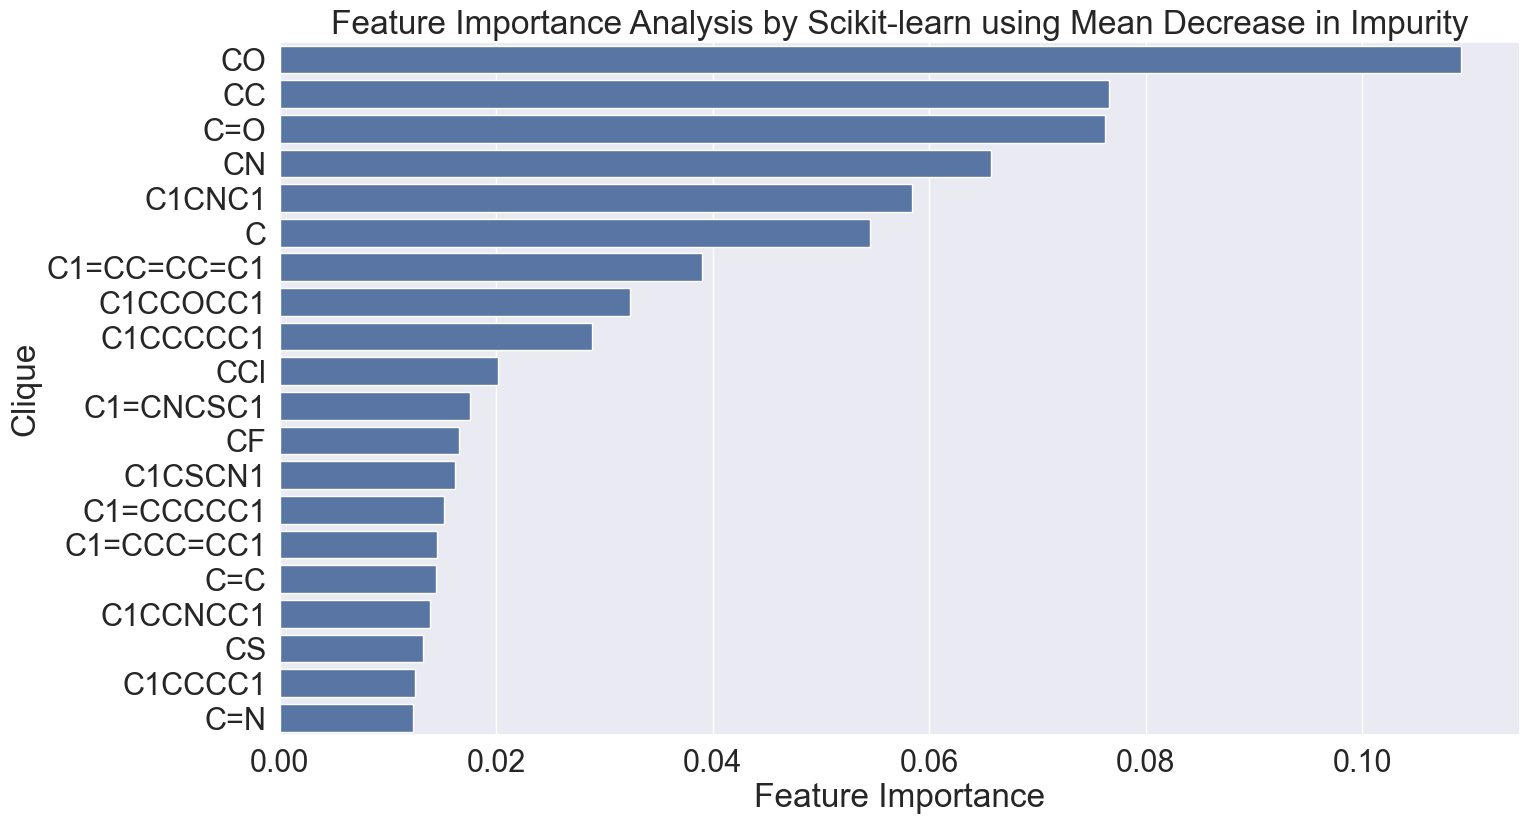
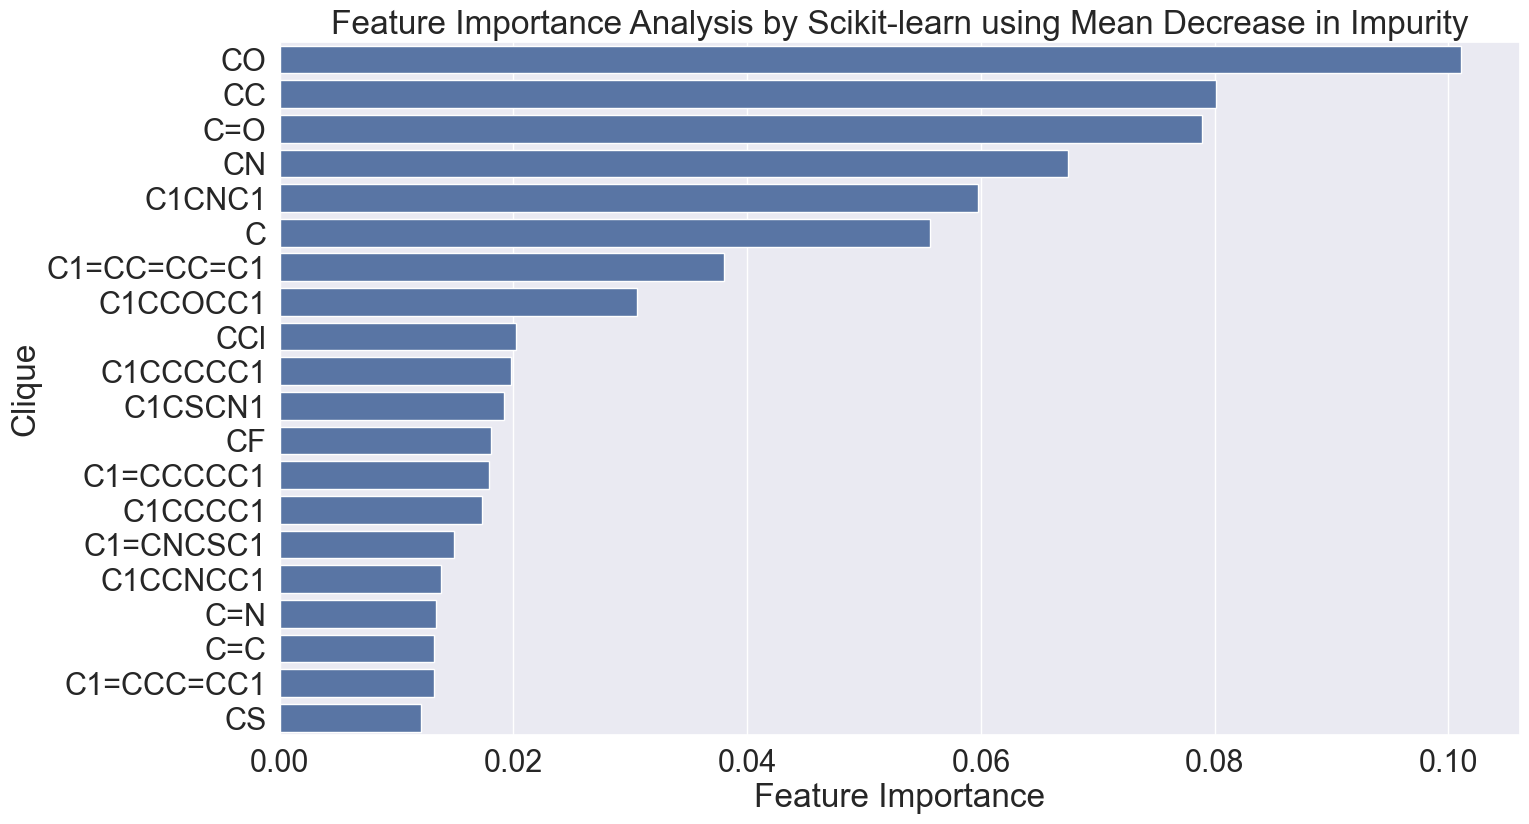
Add permuation importance

diff --git a/clique_forest.py b/clique_forest.py
@@ -5,6 +5,7 @@ import argparse
 
 from sklearn.model_selection import KFold
 from sklearn.ensemble import RandomForestClassifier
+from sklearn.inspection import permutation_importance
 from sklearn.metrics import matthews_corrcoef, roc_auc_score
 from sklearn.metrics import confusion_matrix, ConfusionMatrixDisplay
 
@@ -142,5 +143,21 @@ ax.set_xlabel('Feature Importance')
 ax.set_ylabel('Clique')
 ax.set_title('Feature Importance Analysis by Scikit-learn using Mean Decrease in Impurity')
 plt.savefig(fig_name + '_feature_importance.png', bbox_inches = "tight")
+
+feature_importance = permutation_importance(clf, X, y, n_repeats=10, random_state=42, n_jobs=8)
+feature_importance = pd.DataFrame({'feature': vocab, 'importance': feature_importance['importances_mean'], 'frequency': np.sum(X > 0, axis=0)})
+feature_importance = feature_importance[feature_importance['frequency'] > 50]
+feature_importance = feature_importance.sort_values('importance', ascending=False)
+
+feature_importance.to_csv(fig_name + '_feature_importance_permutation.csv', index=False)
+
+# Plot the feature importance of the top 20 features
+plt.figure(figsize=(16, 9))
+sns.set(font_scale = 2.0)
+ax = sns.barplot(x='importance', y='feature', data=feature_importance.head(20))
+ax.set_xlabel('Feature Importance')
+ax.set_ylabel('Clique')
+ax.set_title('Feature Importance Analysis by Scikit-learn using Permutation Importance')
+plt.savefig(fig_name + '_feature_importance_permutation.png', bbox_inches = "tight")
 
 #plt.show()
